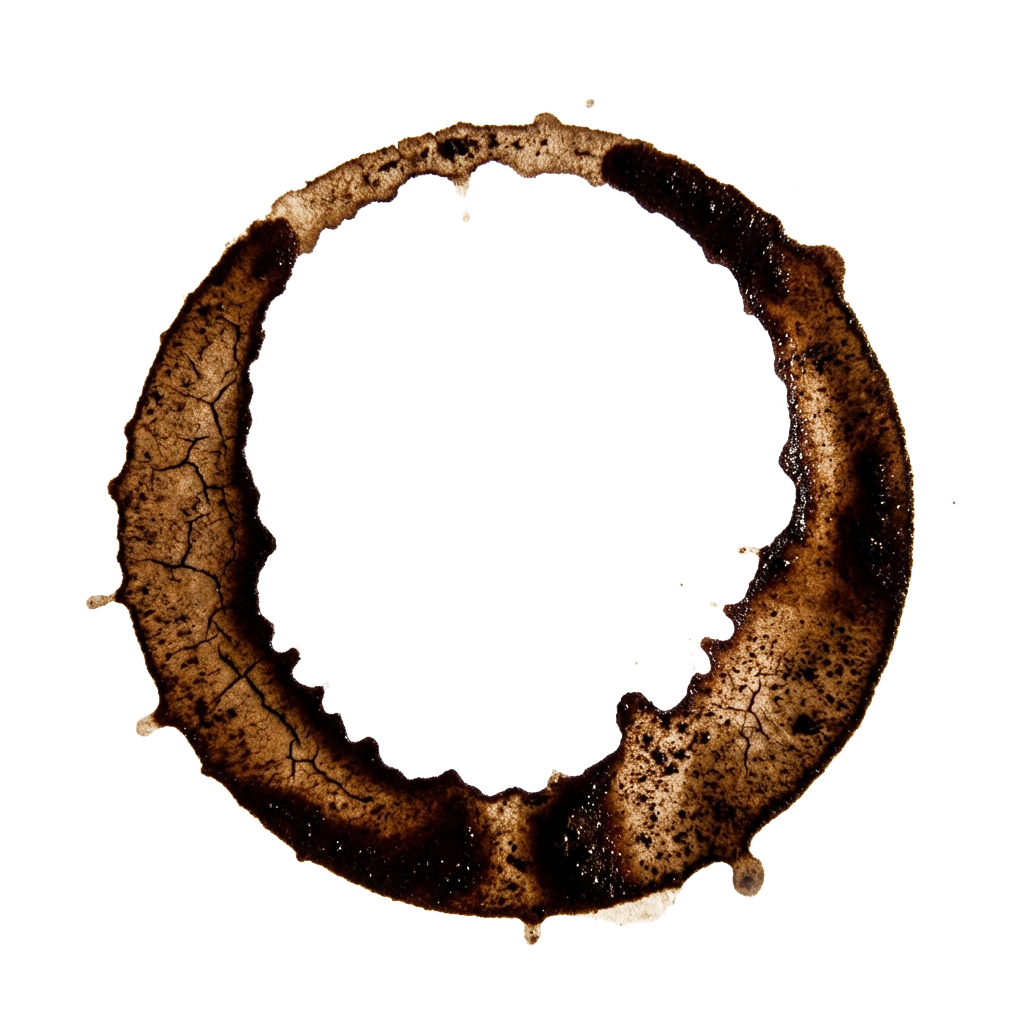
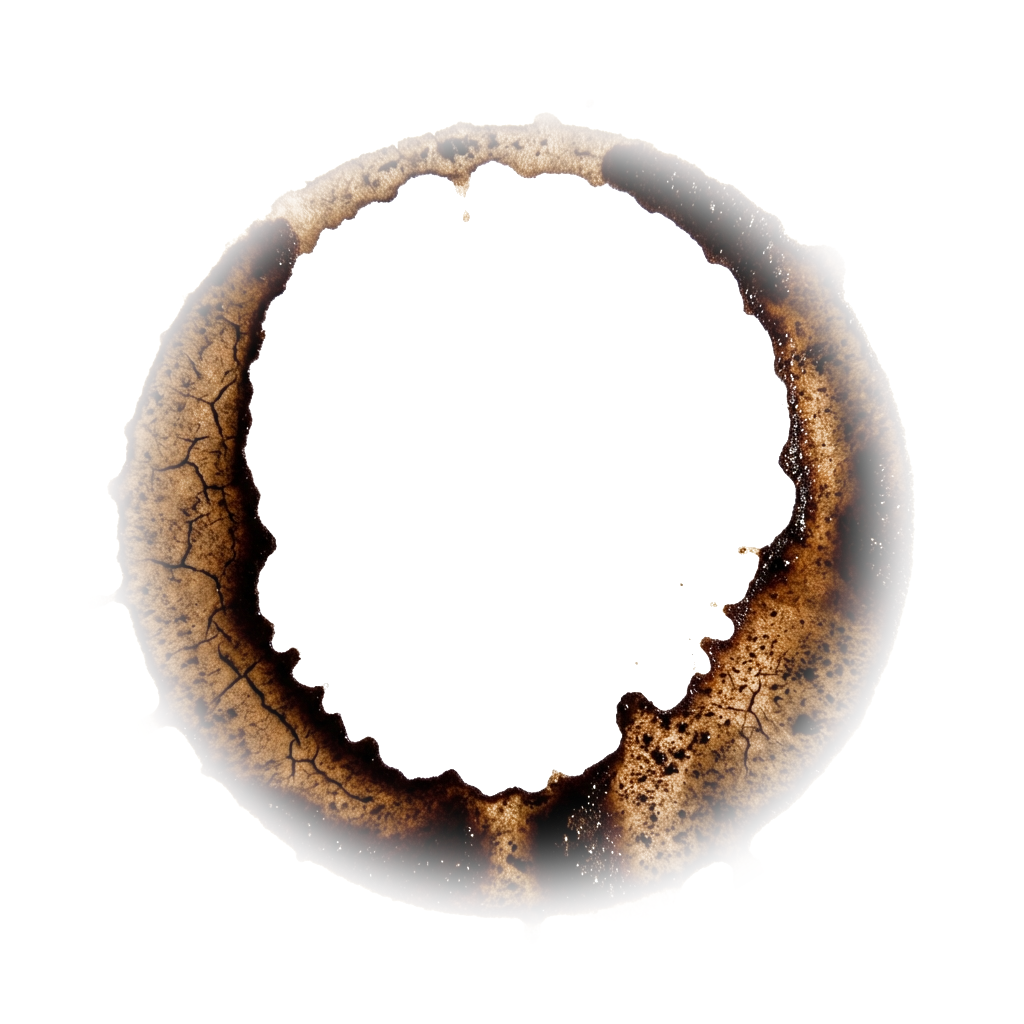
Fix: Removed smudge, added perfect rings, aggressive transparency script

Changed region(s): [[0.0625, 0.0938, 0.9062, 0.9375]]

diff --git a/app.js b/app.js
@@ -550,13 +550,16 @@ function addRandomStains() {
         'images/stain_ring_light.png',
         'images/stain_ring_broken.png',
         'images/stain_ring_messy.png',
-        'images/stain_smudge_light.png',
+        // 'images/stain_smudge_light.png', // Removed: corners
         'images/stain_individual_1.png',
         'images/stain_individual_2.png',
         // New clean variations
         'images/stain_cup_ring_clean.png',
         'images/stain_drip_long.png',
-        'images/stain_splash_tiny.png'
+        'images/stain_splash_tiny.png',
+        // Newest high-quality assets
+        'images/stain_ring_perfect.png',
+        'images/stain_drip_clean.png'
     ];
 
     // Reduced count: 2 to 3 stains

diff --git a/make_transparent.py b/make_transparent.py
@@ -3,61 +3,59 @@ import os
 import glob
 import math
 
-def apply_transparency_and_vignette(image_path):
+def apply_aggressive_transparency(image_path):
     try:
         img = Image.open(image_path).convert("RGBA")
         width, height = img.size
         
-        # 1. LUMINANCE TRANSPARENCY (Darkness = Opacity)
+        # 1. LUMINANCE TRANSPARENCY (Strict)
         datas = img.getdata()
         new_data = []
         for item in datas:
             r, g, b, a = item
             brightness = (r + g + b) / 3
             
-            # White -> Transparent
-            # Threshold to ensure paper white is gone
-            if brightness > 230: 
+            # STRICTER THRESHOLD: Any light grey/white becomes transparent
+            if brightness > 210: # More aggressive cutoff (was 230)
                 new_alpha = 0
             else:
-                # Invert brightness for alpha
-                new_alpha = int((255 - brightness) * 1.8) # Boost contrast
+                # Steep curve for opacity
+                new_alpha = int((255 - brightness) * 2.0) 
                 new_alpha = min(new_alpha, 255)
             
             new_data.append((r, g, b, new_alpha))
         
         img.putdata(new_data)
         
-        # 2. VIGNETTE MASK (Force fade edges)
-        # Create a gradient mask that is white in center, black at edges
+        # 2. VIGNETTE MASK (Aggressive)
         mask = Image.new("L", (width, height), 0)
         draw = ImageDraw.Draw(mask)
         
-        # Define ellipse slightly smaller than image
-        # This ensures corners are cut off
-        margin_x = width * 0.05
-        margin_y = height * 0.05
+        # 15% Margin to cut off corners definitively
+        margin_x = width * 0.15
+        margin_y = height * 0.15
+        
+        # Draw white oval in center (visible area)
         draw.ellipse((margin_x, margin_y, width - margin_x, height - margin_y), fill=255)
         
-        # Blur the mask to make the fade soft
-        mask = mask.filter(ImageFilter.GaussianBlur(radius=20))
+        # Heavy blur to smooth the transition
+        mask = mask.filter(ImageFilter.GaussianBlur(radius=30))
         
-        # Apply mask to Alpha channel
-        # We multiply existing alpha by mask value
+        # Apply mask
         final_data = []
         current_data = img.getdata()
         mask_data = mask.getdata()
         
         for i, pixel in enumerate(current_data):
             r, g, b, a = pixel
-            mask_val = mask_data[i] / 255.0 # 0.0 to 1.0
+            mask_val = mask_data[i] / 255.0
             
             final_alpha = int(a * mask_val)
             final_data.append((r, g, b, final_alpha))
             
         img.putdata(final_data)
         img.save(image_path, "PNG")
-        print(f"Processed (Luminance + Vignette): {image_path}")
+        print(f"Processed (Aggressive): {image_path}")
         
     except Exception as e:
         print(f"Failed {image_path}: {e}")
@@ -67,4 +65,4 @@ target_dir = "/home/meow/Documents/Antigravity/CREAFcoffee/images"
 files = glob.glob(os.path.join(target_dir, "*.png"))
 
 for f in files:
-    apply_transparency_and_vignette(f)
+    apply_aggressive_transparency(f)
